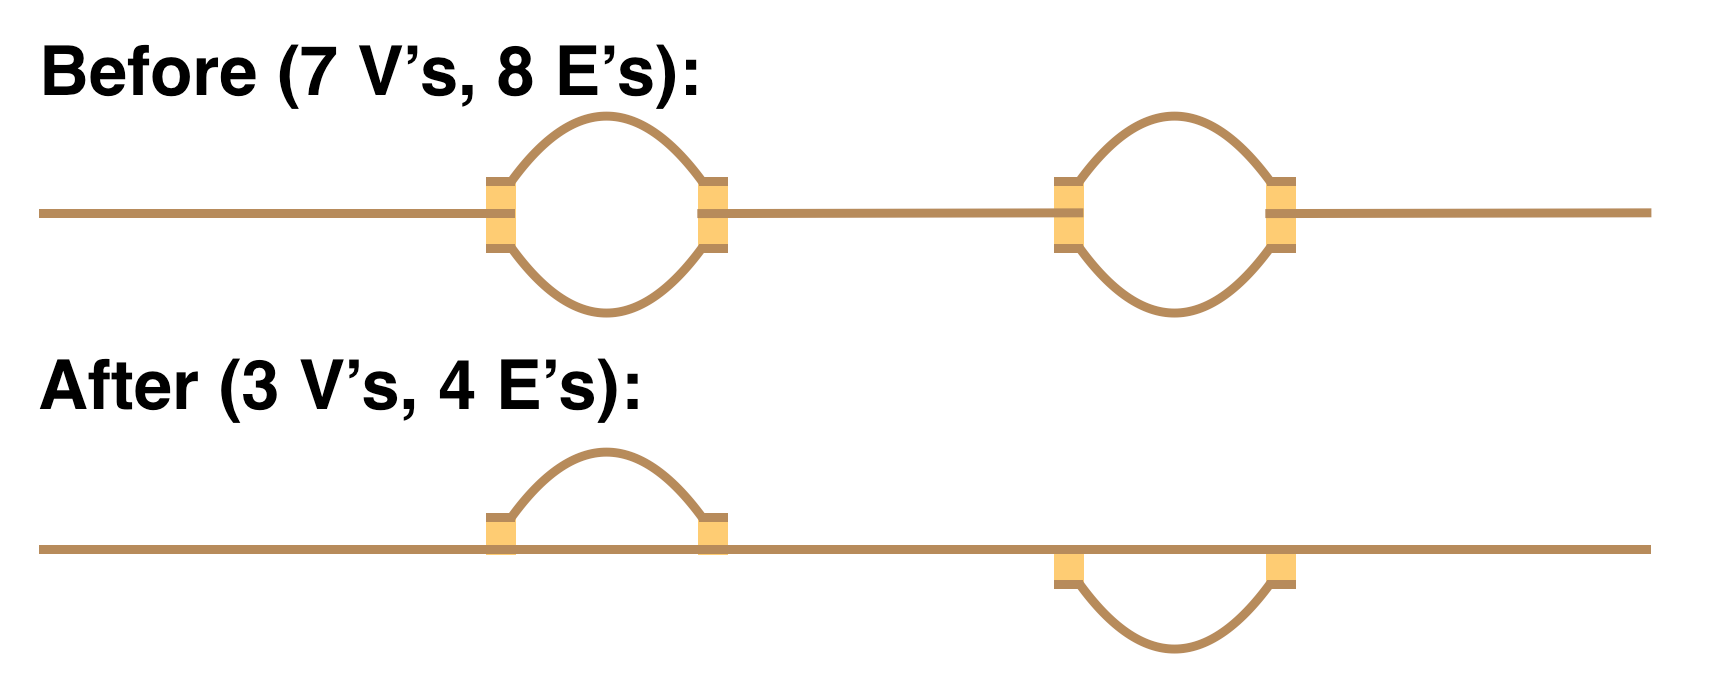
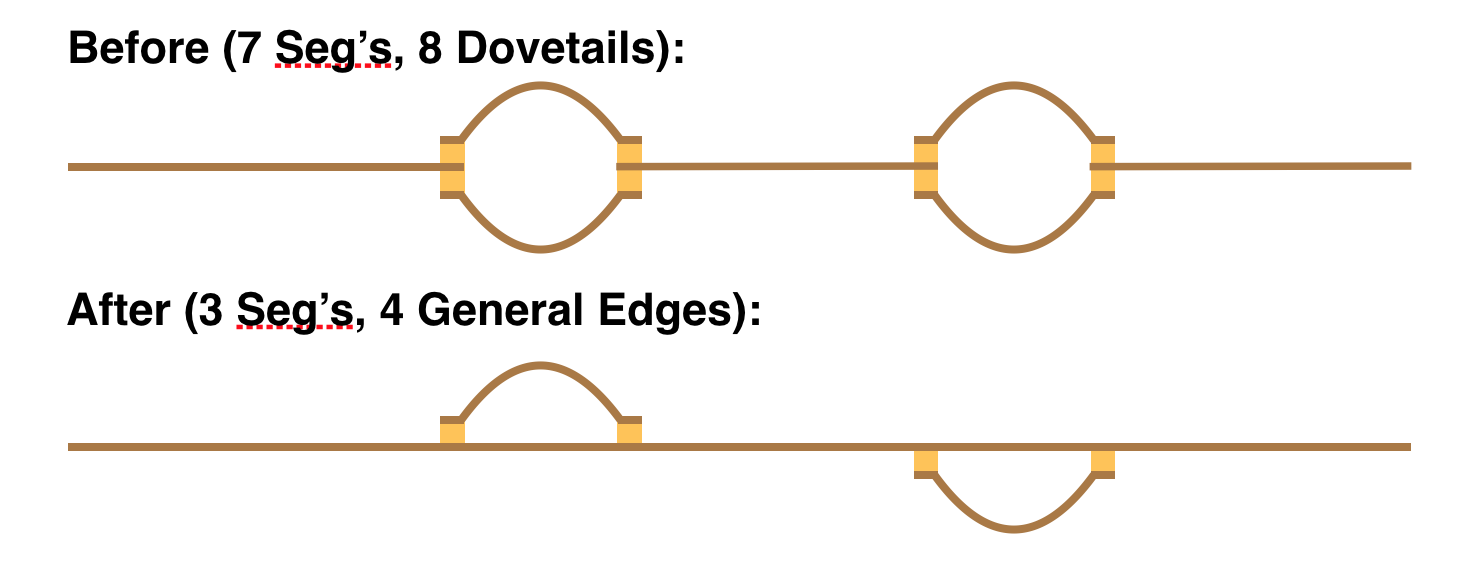
Revision of E-edge position syntax
Idea of using ^ and $ for segment ends.  Also having only one sign
applied to second segment in order to make specs unique.

Changed region(s): [[0.0, 0.5035, 0.9836, 0.9774], [0.0, 0.0296, 0.7377, 0.4739], [0.6455, 0.1185, 0.9836, 0.385]]

diff --git a/GFA2-spec.md b/GFA2-spec.md
@@ -39,18 +39,19 @@ assembly can be described.
 
 <segment> <- <simple> | <multi> <fragment>NF
  
-   <multi>  <- S <sid> <slen> <string> NF:i:<int> 
+   <multi>  <- S <sid:int> <slen:int> <string> NF:i:<int> 
  
-   <simple> <- S <sid> <slen> <string>
+   <simple> <- S <sid:int> <slen:int> <string>
 
-   <fragment> <- F <sid> [+-] <eid> <sbeg> <send> {<alignment>}
-                                    {CL:B:<pbeg>,<pend>,<plen>}
+   <fragment> <- F <sid:int> [+-] <eid:int> <sbeg:int> <send:int> {<alignment>}
+                                                    {CL:B:<pbeg>,<pend>,<plen>}
 
-<edge> <- E <sid1> [+-] <sid2> [+-] <beg1> <end1> <beg2> <end2>
-                                    {<alignment>}
+<edge> <- E <sid1:int> [+-] <sid2:int> <beg1:pos> <end1:pos> <beg2:pos> <end2:pos>
+                                   {<alignment>}
 
-<gap>  <- G <sid1> [+-] <sid2> [+-] <dist> <var>
+<gap>  <- G <sid1:int> [+-] <sid2:int> [+-] <dist:int> <var:int>
 
+    <pos>       <- ^ | <int> | $
     <string>    <- * | [ACGTacgt]+
     <alignment> <- TR:B:<trace array>
                    CG:Z:<CIGAR string>
@@ -91,25 +92,29 @@ clipping/trimming the fragment sequence be necessary, what portion of the fragme
 its length with a CL-tag.
 
 Edges are encoded in E-lines that in general represent a local alignment between arbitrary
-intervals of the sequences of the two vertices in question. As per GFA, one gives the segment
-id’s of the two vertices followed by a + or – sign to indicate their orientation.  Unlike GFA,
-a CIGAR string (or trace) is optional, but one must give the intervals that are aligned.
+intervals of the sequences of the two vertices in question. One gives the segment id’s of
+the two vertices and a + or – sign between them to indicate whether the second segment should
+be complemented or not.  A CIGAR string (or trace) describing the alignment is optional, but
+one must give the intervals that are aligned as a pair of positions where a position can have
+the special value \^ denoting the beginning of the segment, or the special
+value \$ denoting the end of the segment.
 
 The GFA2 concept of edge generalizes the link and containment lines of GFA.  For example a GFA
 link which encodes what is called a dovetail overlap (because two ends overlap) is simply a GFA2
-edge where end1 = |sid1| and beg2 = 0 or beg1 = 0 and end2 = |sid2|.   A GFA containment is
-modeled by the case where beg2 = 0 and end2 = |sid2| or beg1 = 0 and end1 = |sid1|.  The figure
+edge where end1 = $ and beg2 = ^ or beg1 = ^ and end2 = $.   A GFA containment is
+modeled by the case where beg2 = ^ and end2 = $ or beg1 = ^ and end1 = $.  The figure
 below illustrates:
 
 ![Fig. 1](GFA2.Fig1.png)
 
 Special codes could be adopted for dovetail and containment relationships but the thought is
-there is no particular reason to do so and the more general scenario allows interesting
-possibilities.  For example, one might have two haplotype bubbles shown in the “Before”
-picture below, and then in a next phase choose a path through the bubbles as the
-primary “contig”, and then capture the two buble alternatives as a vertex linked with
-generalized edges shown in the “After” picture.  Note carefully that you need a generalized
-edge to capture the attachment of the two haplotype bubbles in the “After” picture.
+there is no particular reason to do so, the use of the special characters for terminal positions
+makes their identification simple both algorithmically and visually, and the more general
+scenario allows interesting possibilities.  For example, one might have two haplotype bubbles
+shown in the “Before” picture below, and then in a next phase choose a path through the
+bubbles as the primary “contig”, and then capture the two buble alternatives as a vertex
+linked with generalized edges shown in the “After” picture.  Note carefully that you need a
+generalized edge to capture the attachment of the two haplotype bubbles in the “After” picture.
 
 ![Fig. 2](GFA2.Fig2.png)
  
